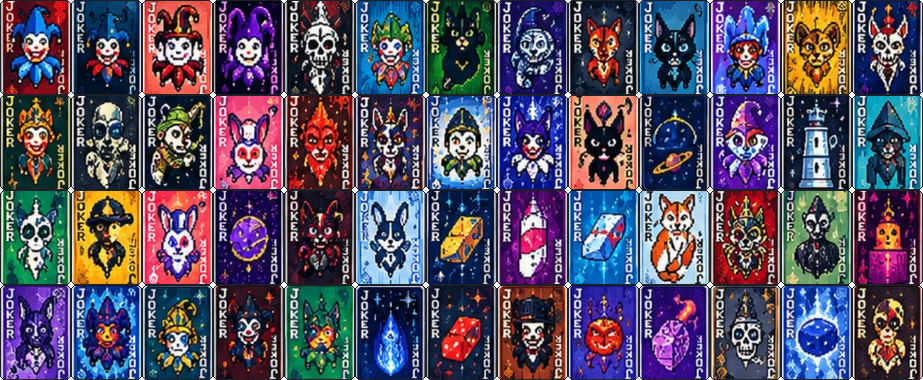
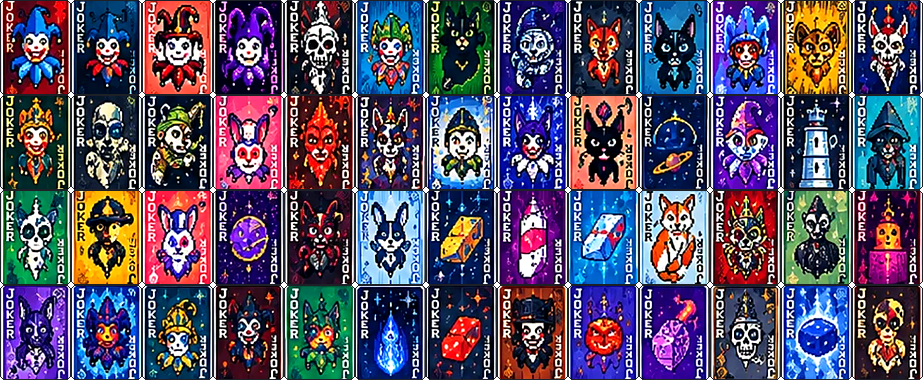
Sprites de los comodines más nítidos
El 2x se ampliaba con suavizado desde imágenes pequeñas y se veía borroso.
Ahora el 1x se reduce con nitidez y el 2x duplica píxeles (NEAREST),
igual que los sprites del juego base.

Claude-Session: https://claude.ai/code/session_01LgYNyfMnTwRCQ5n5SLAuKf

diff --git a/tools/generar_comodines.py b/tools/generar_comodines.py
@@ -5,7 +5,7 @@ Uso: python3 tools/generar_comodines.py   (requiere Pillow)
 import re
 from pathlib import Path
 
-from PIL import Image, ImageDraw
+from PIL import Image, ImageDraw, ImageEnhance, ImageFilter
 
 import comodines
 import comodines_hoja2
@@ -68,22 +68,30 @@ def recortar_cartas(img, hoja):
     return cajas
 
 
-def sprite(img, caja, escala):
-    w, h = W * escala, H * escala
+def sprite(img, caja):
+    """Carta a 1x (71x95) como pixel art limpio.
+
+    Las hojas son imagenes pequenas; ampliarlas con suavizado las emborrona.
+    Se reduce a 1x con un poco de nitidez y el 2x se obtiene duplicando
+    pixeles (NEAREST), igual que los sprites del juego base.
+    """
     carta = img.crop(caja)
     # Escala uniforme hasta cubrir el hueco y recorta el sobrante centrado
-    f = max(w / carta.width, h / carta.height)
+    f = max(W / carta.width, H / carta.height)
     carta = carta.resize((round(carta.width * f), round(carta.height * f)), Image.LANCZOS)
-    x = (carta.width - w) // 2
-    y = (carta.height - h) // 2
-    carta = carta.crop((x, y, x + w, y + h)).convert("RGBA")
+    x = (carta.width - W) // 2
+    y = (carta.height - H) // 2
+    carta = carta.crop((x, y, x + W, y + H))
+    carta = carta.filter(ImageFilter.UnsharpMask(radius=1, percent=80, threshold=2))
+    carta = ImageEnhance.Contrast(carta).enhance(1.08)
+    carta = ImageEnhance.Color(carta).enhance(1.12)
+    carta = carta.convert("RGBA")
     # Esquinas redondeadas y borde oscuro como las cartas de Balatro
-    mascara = Image.new("L", (w, h), 0)
-    ImageDraw.Draw(mascara).rounded_rectangle([0, 0, w - 1, h - 1], radius=5 * escala, fill=255)
-    fondo = Image.new("RGBA", (w, h), (0, 0, 0, 0))
+    mascara = Image.new("L", (W, H), 0)
+    ImageDraw.Draw(mascara).rounded_rectangle([0, 0, W - 1, H - 1], radius=5, fill=255)
+    fondo = Image.new("RGBA", (W, H), (0, 0, 0, 0))
     fondo.paste(carta, (0, 0), mascara)
-    ImageDraw.Draw(fondo).rounded_rectangle([0, 0, w - 1, h - 1], radius=5 * escala,
-                                            outline=(30, 32, 40, 255), width=escala)
+    ImageDraw.Draw(fondo).rounded_rectangle([0, 0, W - 1, H - 1], radius=5, outline=(30, 32, 40, 255), width=1)
     return fondo
 
 
@@ -91,12 +99,12 @@ def generar_atlas(hoja):
     img = Image.open(ROOT / "assets" / "fuente" / hoja["fuente"]).convert("RGB")
     cajas = recortar_cartas(img, hoja)
     cols, filas = hoja["cols"], hoja["filas"]
+    atlas = Image.new("RGBA", (W * cols, H * filas), (0, 0, 0, 0))
+    for i, caja in enumerate(cajas):
+        atlas.paste(sprite(img, caja), ((i % cols) * W, (i // cols) * H))
     for escala in (1, 2):
-        atlas = Image.new("RGBA", (W * escala * cols, H * escala * filas), (0, 0, 0, 0))
-        for i, caja in enumerate(cajas):
-            atlas.paste(sprite(img, caja, escala), ((i % cols) * W * escala, (i // cols) * H * escala))
         out = ROOT / "assets" / f"{escala}x" / hoja["png"]
-        atlas.save(out)
+        atlas.resize((atlas.width * escala, atlas.height * escala), Image.NEAREST).save(out)
         print("escrito", out.relative_to(ROOT))
 
 
